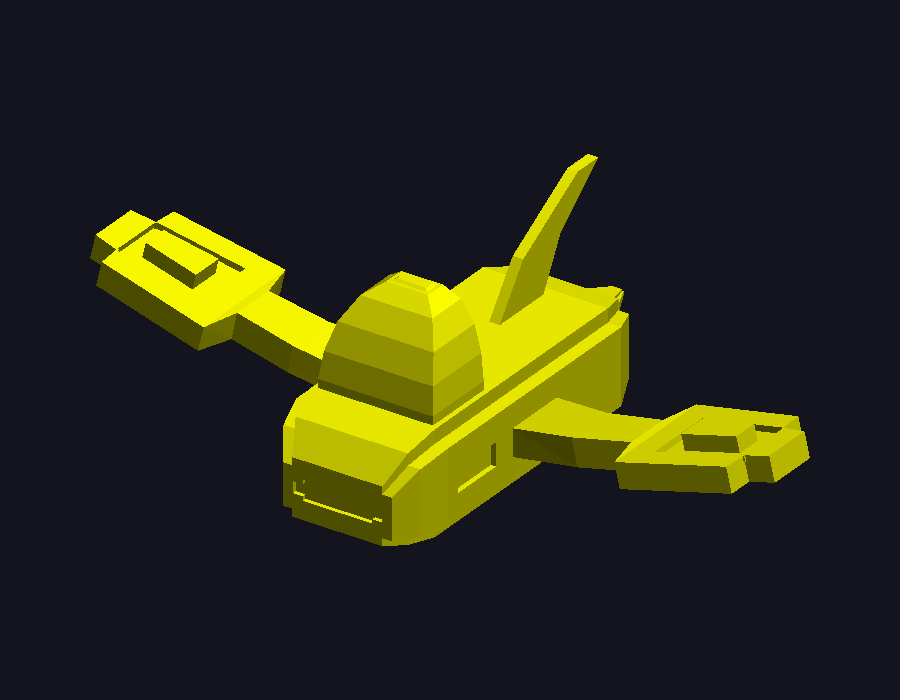
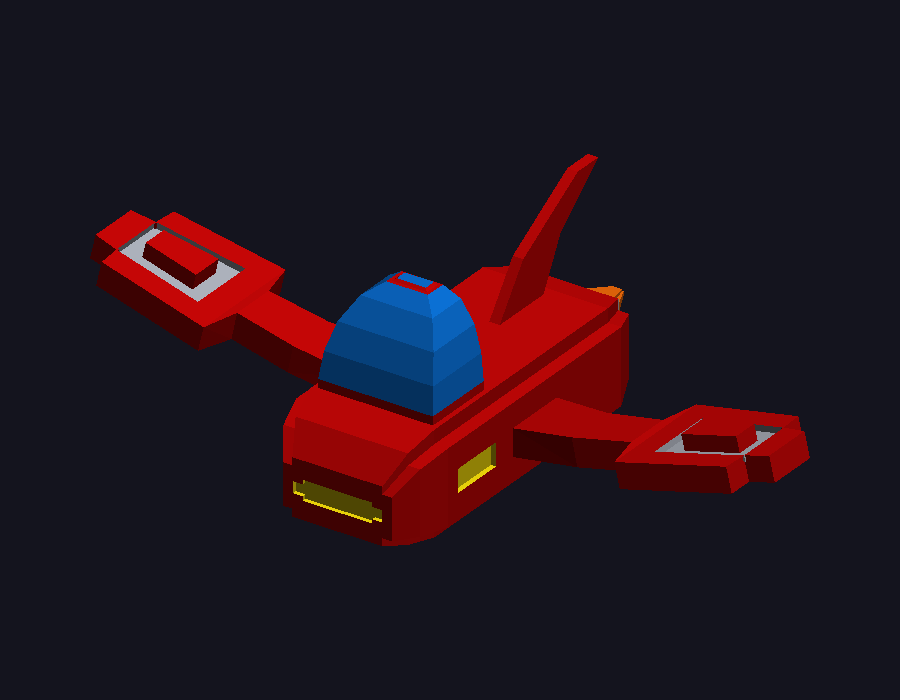
Add material definitions for hoverpiilder model

Changed region(s): [[0.0933, 0.21, 0.9022, 0.78]]

diff --git a/src/obj.rs b/src/obj.rs
@@ -1,15 +1,57 @@
+use crate::framebuffer::Color;
 use crate::triangle::Vec3;
+use std::collections::HashMap;
 use std::fs;
+use std::path::Path;
+
+pub struct Face {
+    pub indices: Vec<usize>,
+    pub color: Color,
+}
+
+/// Lee los colores difusos (Kd) de un archivo .mtl.
+fn load_mtl(path: &Path) -> HashMap<String, Color> {
+    let mut mats = HashMap::new();
+    let Ok(text) = fs::read_to_string(path) else { return mats };
+    let mut name = String::new();
+    for line in text.lines() {
+        let mut p = line.split_whitespace();
+        match p.next() {
+            Some("newmtl") => name = p.next().unwrap_or("").to_string(),
+            Some("Kd") => {
+                let c: Vec<f32> = p.filter_map(|s| s.parse().ok()).collect();
+                if c.len() == 3 {
+                    let q = |v: f32| (v.clamp(0.0, 1.0) * 255.0) as u8;
+                    mats.insert(name.clone(), Color::new(q(c[0]), q(c[1]), q(c[2])));
+                }
+            }
+            _ => {}
+        }
+    }
+    mats
+}
 
 /// Carga vértices y caras (índices base 0) de un archivo .obj.
-pub fn load(path: &str) -> std::io::Result<(Vec<Vec3>, Vec<Vec<usize>>)> {
+pub fn load(path: &str) -> std::io::Result<(Vec<Vec3>, Vec<Face>)> {
     let text = fs::read_to_string(path)?;
     let mut vertices = Vec::new();
     let mut faces = Vec::new();
+    let mut materials = HashMap::new();
+    let mut current = Color::new(255, 255, 255);
 
     for line in text.lines() {
         let mut parts = line.split_whitespace();
         match parts.next() {
+            Some("mtllib") => {
+                if let Some(f) = parts.next() {
+                    materials = load_mtl(&Path::new(path).with_file_name(f));
+                }
+            }
+            Some("usemtl") => {
+                if let Some(c) = parts.next().and_then(|n| materials.get(n)) {
+                    current = *c;
+                }
+            }
             Some("v") => {
                 let c: Vec<f32> = parts.take(3).filter_map(|s| s.parse().ok()).collect();
                 if c.len() == 3 {
@@ -23,7 +65,7 @@ pub fn load(path: &str) -> std::io::Result<(Vec<Vec3>, Vec<Vec<usize>>)> {
                     .map(|i| if i < 0 { (vertices.len() as i64 + i) as usize } else { i as usize - 1 })
                     .collect();
                 if idx.len() >= 3 {
-                    faces.push(idx);
+                    faces.push(Face { indices: idx, color: current });
                 }
             }
             _ => {}

diff --git a/src/main.rs b/src/main.rs
@@ -21,7 +21,7 @@ fn rotate(v: Vec3, yaw: f32, pitch: f32) -> Vec3 {
 }
 
 /// Dibuja todos los triángulos del modelo, centrado y escalado a la pantalla.
-fn render(fb: &mut Framebuffer, vertices: &[Vec3], faces: &[Vec<usize>], yaw: f32, pitch: f32) {
+fn render(fb: &mut Framebuffer, vertices: &[Vec3], faces: &[obj::Face], yaw: f32, pitch: f32) {
     let rotated: Vec<Vec3> = vertices.iter().map(|&v| rotate(v, yaw, pitch)).collect();
 
     // Centro y escala calculados de la caja envolvente del modelo rotado.
@@ -51,17 +51,15 @@ fn render(fb: &mut Framebuffer, vertices: &[Vec3], faces: &[Vec<usize>], yaw: f3
     let light = Vec3::new(0.3, 0.6, -0.75).normalized();
 
     // Recorremos manualmente las caras y las triangulamos (abanico).
-    for face in faces {
+    for f in faces {
+        let face = &f.indices;
         for i in 1..face.len() - 1 {
             let (a, b, c) = (screen[face[0]], screen[face[i]], screen[face[i + 1]]);
             let (ra, rb, rc) = (rotated[face[0]], rotated[face[i]], rotated[face[i + 1]]);
             let normal = (rb - ra).cross(rc - ra).normalized();
             let intensity = (normal.dot(light).abs() * 0.8 + 0.2).clamp(0.0, 1.0);
-            fb.set_color(Color::new(
-                (255.0 * intensity) as u8,
-                (255.0 * intensity) as u8,
-                0,
-            ));
+            let k = |c: u8| (c as f32 * intensity) as u8;
+            fb.set_color(Color::new(k(f.color.r), k(f.color.g), k(f.color.b)));
             triangle::triangle(fb, a, b, c);
         }
     }
